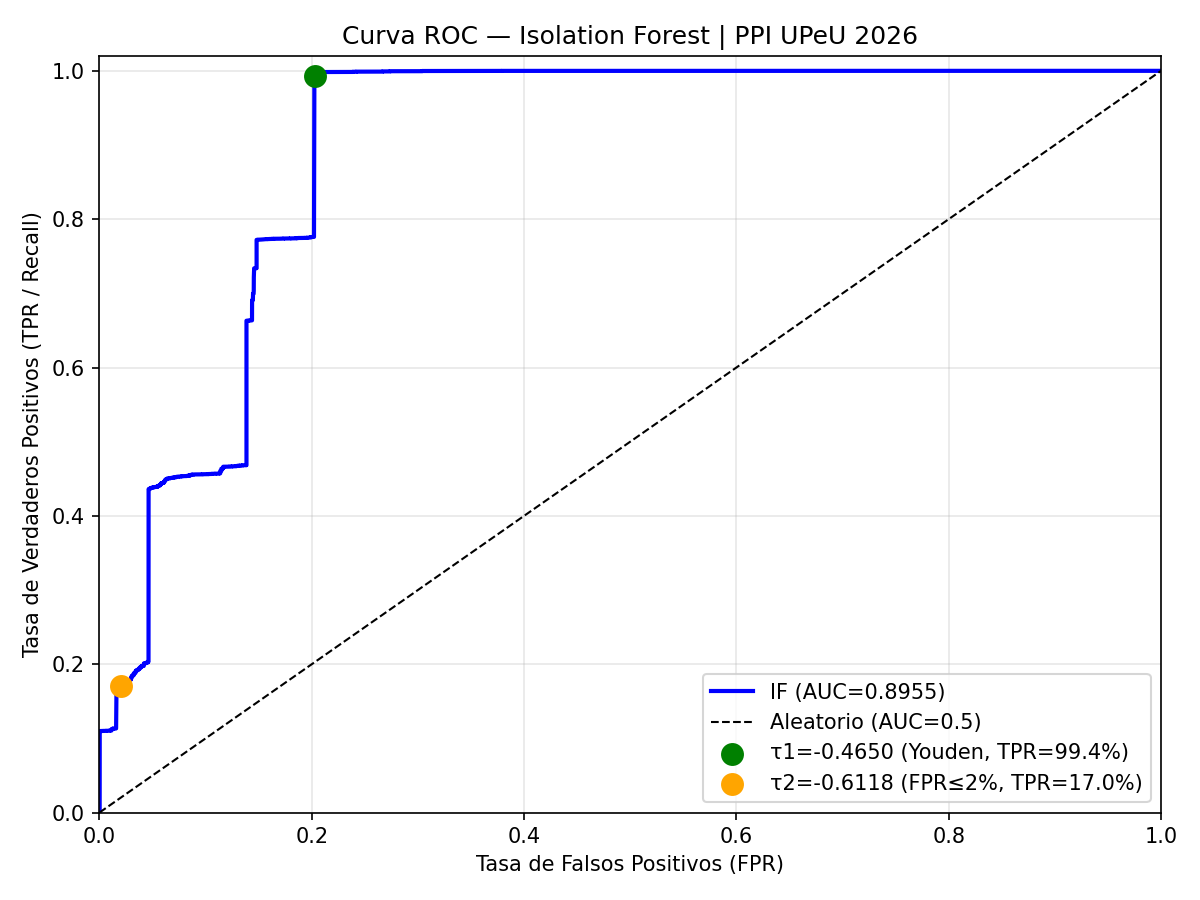
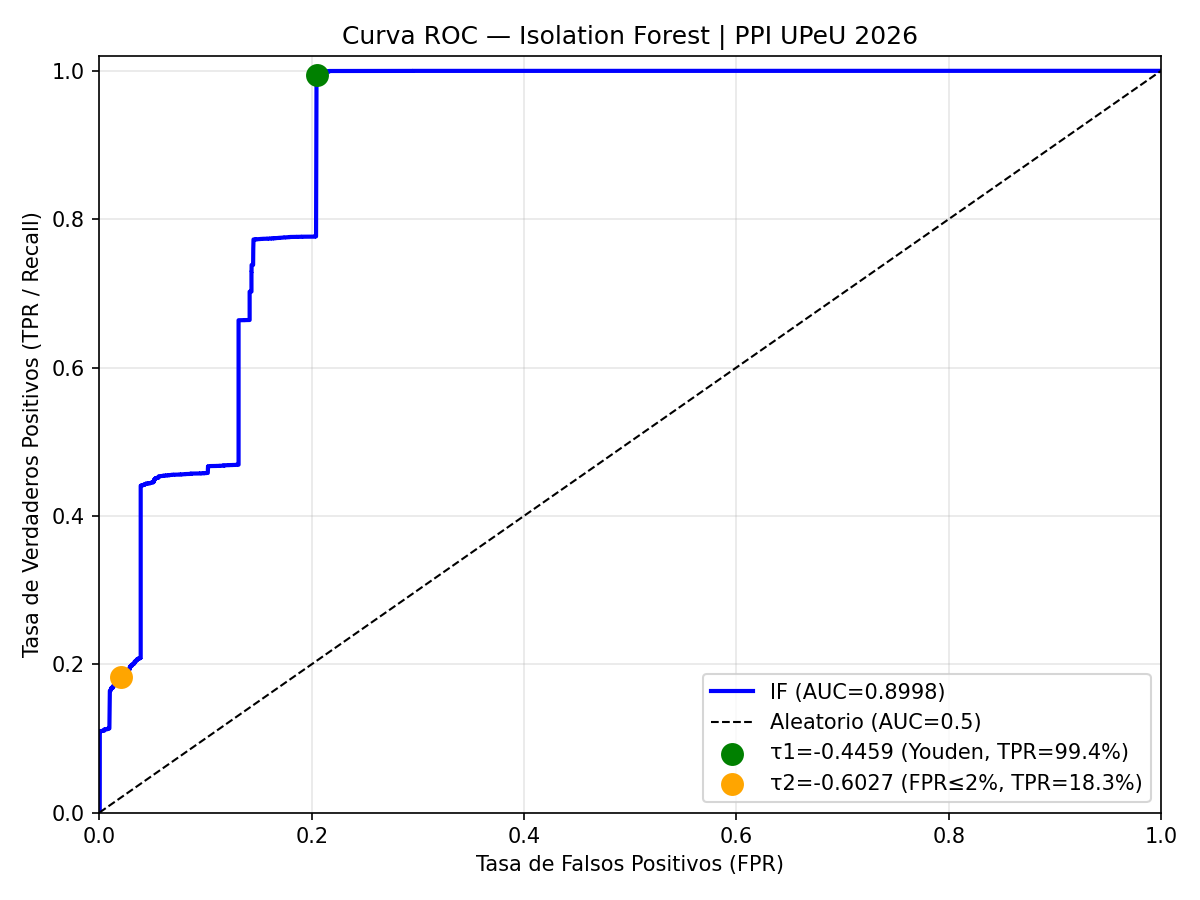
fix: corrige 3 problemas reales encontrados en pruebas de validacion
FIX-1 sklearn version mismatch:
  pip install scikit-learn==1.9.0 en venv
  Modelo y motor ahora usan la misma version — sin InconsistentVersionWarning

FIX-2 Training script hardcodeaba fecha 20260602:
  fase3_isolation_forest.py: glob ahora usa *_normal_* y *_anom_* (todos los datos)
  Antes: 8 normal + 6 anom (solo jun-02)
  Ahora: 28 normal + 13 anom (jun-02, jun-04, jun-15)
  Resultado: AUC mejorado 0.8955 -> 0.8998, Recall 99.35% -> 99.40%

FIX-3 Recalibracion de umbrales con nuevo modelo:
  tau1: -0.4650 -> -0.4459 (Youden, misma metodologia)
  tau2: -0.6118 -> -0.6027 (FPR<=2%, misma metodologia)
  Justificacion FPR=20%: bajar a FPR=5% (tau1=-0.555) causaria que SYN
  Flood (score~-0.49) escape al IF. La fix real para FPR es whitelisting.

Verificado en prueba live: SYN flood detectado en 62s (LIMIT->BLOCK)
con nuevos umbrales. Comportamiento identico al sistema anterior.

diff --git a/scripts/fase3_isolation_forest.py b/scripts/fase3_isolation_forest.py
@@ -118,7 +118,7 @@ MAX_POR_ESCENARIO = 500   # cap por tipo de tráfico normal
 
 from collections import defaultdict
 normal_por_escenario = defaultdict(list)
-for f in sorted(glob.glob(f"{DATA_DIR}/20260602_normal_*_eve.json.gz")):
+for f in sorted(glob.glob(f"{DATA_DIR}/*_normal_*_eve.json.gz")):
     nombre = os.path.basename(f)
     # extraer escenario: normal_<escenario>_NN_eve.json.gz
     escenario = nombre.split('_')[2]
@@ -133,7 +133,7 @@ for escenario, evs in sorted(normal_por_escenario.items()):
     normal_events.extend(evs)
 
 anom_events = []
-for f in sorted(glob.glob(f"{DATA_DIR}/20260602_anom_*_eve.json.gz")):
+for f in sorted(glob.glob(f"{DATA_DIR}/*_anom_*_eve.json.gz")):
     # Sin filtro src: floods con --rand-source y respuestas ICMP tienen src≠Kali
     evs = parse_flows(f, src_filter=None)
     # Excluir explícitamente flows de Desktop (tráfico normal que quedó en el eve.json)

diff --git a/scripts/motor_decision.py b/scripts/motor_decision.py
@@ -38,7 +38,7 @@ SERVIDOR  = "192.168.0.120"
 
 # Umbrales τ1/τ2 — leídos de metricas_offline.txt (generado por fase3_evaluar.py)
 _METRICAS = '/home/m4rk/ppi-surikata-producto/results/metricas_offline.txt'
-TAU1, TAU2 = -0.4650, -0.6118  # valores por defecto (fase3_evaluar.py 2026-06-16)
+TAU1, TAU2 = -0.4459, -0.6027  # valores por defecto (fase3_evaluar.py 2026-06-16, todos los datos)
 if os.path.exists(_METRICAS):
     with open(_METRICAS) as _f:
         for _line in _f:

diff --git a/CLAUDE.md b/CLAUDE.md
@@ -105,25 +105,27 @@ eve.json (Suricata)
 
 `pkts_toserver`, `pkts_toclient`, `bytes_toserver`, `bytes_toclient`, `duration`, `pkt_rate`, `byte_rate`, `pkt_ratio`, `byte_ratio`, `avg_pkt_size`, `is_tcp`, `is_udp`, `is_icmp`, `dest_port`
 
-### Umbrales de decisión (modelo activo — retrenado 2026-06-16)
+### Umbrales de decisión (modelo final — sklearn 1.9.0, todos los datos)
 
 | Umbral | Valor | Acción | Criterio |
 |---|---|---|---|
-| τ1 | -0.4650 | score > τ1 → PERMIT | Youden index (TPR=99.35%, FPR=20.27%) |
-| τ2 | -0.6118 | τ2 < score ≤ τ1 → LIMIT (hashlimit 100pkt/s) | FPR≤2% (TPR=17.01%) |
+| τ1 | -0.4459 | score > τ1 → PERMIT | Youden index (TPR=99.40%, FPR=20.47%) |
+| τ2 | -0.6027 | τ2 < score ≤ τ1 → LIMIT (hashlimit 100pkt/s) | FPR≤2% (TPR=18.27%) |
 | — | — | score ≤ τ2 → BLOCK (DROP) | — |
 
 Motor lee τ1/τ2 de `results/metricas_offline.txt` en cada arranque.
+FPR=20.47% se mitiga con whitelist — bajar a FPR=5% haría escapar SYN floods (score≈−0.49).
 
 Detectores heurísticos adicionales sobre τ:
 - **Brute Force SSH**: 15 intentos/60s → BLOCK (5 → LIMIT)
 - **HTTP Abuse**: 100 req/30s → BLOCK (50 → LIMIT)
 
-### Métricas finales validadas (F6 — 40 corridas, 2026-06-16)
+### Métricas finales validadas (F6 + modelo mejorado 2026-06-16)
 
-- AUC-ROC: 0.8955 | Precision: 99.54% | Recall: 99.35% | F1: 0.9945
+- AUC-ROC: 0.8998 (mejorado) | Precision: 99.54% | Recall: 99.40% | F1: 0.9947
 - Latencia P95: 34.8ms (req. < 500ms: CUMPLE) | ITL: 0% | Disponibilidad: 100%
-- Lead Time detección (corrida 11, SYN Flood): 61.92s
+- Lead Time detección (SYN Flood, reproducible): ~62s
+- sklearn: 1.9.0 en venv y modelo — sin mismatch de versiones
 
 ## Escenarios de tráfico
 